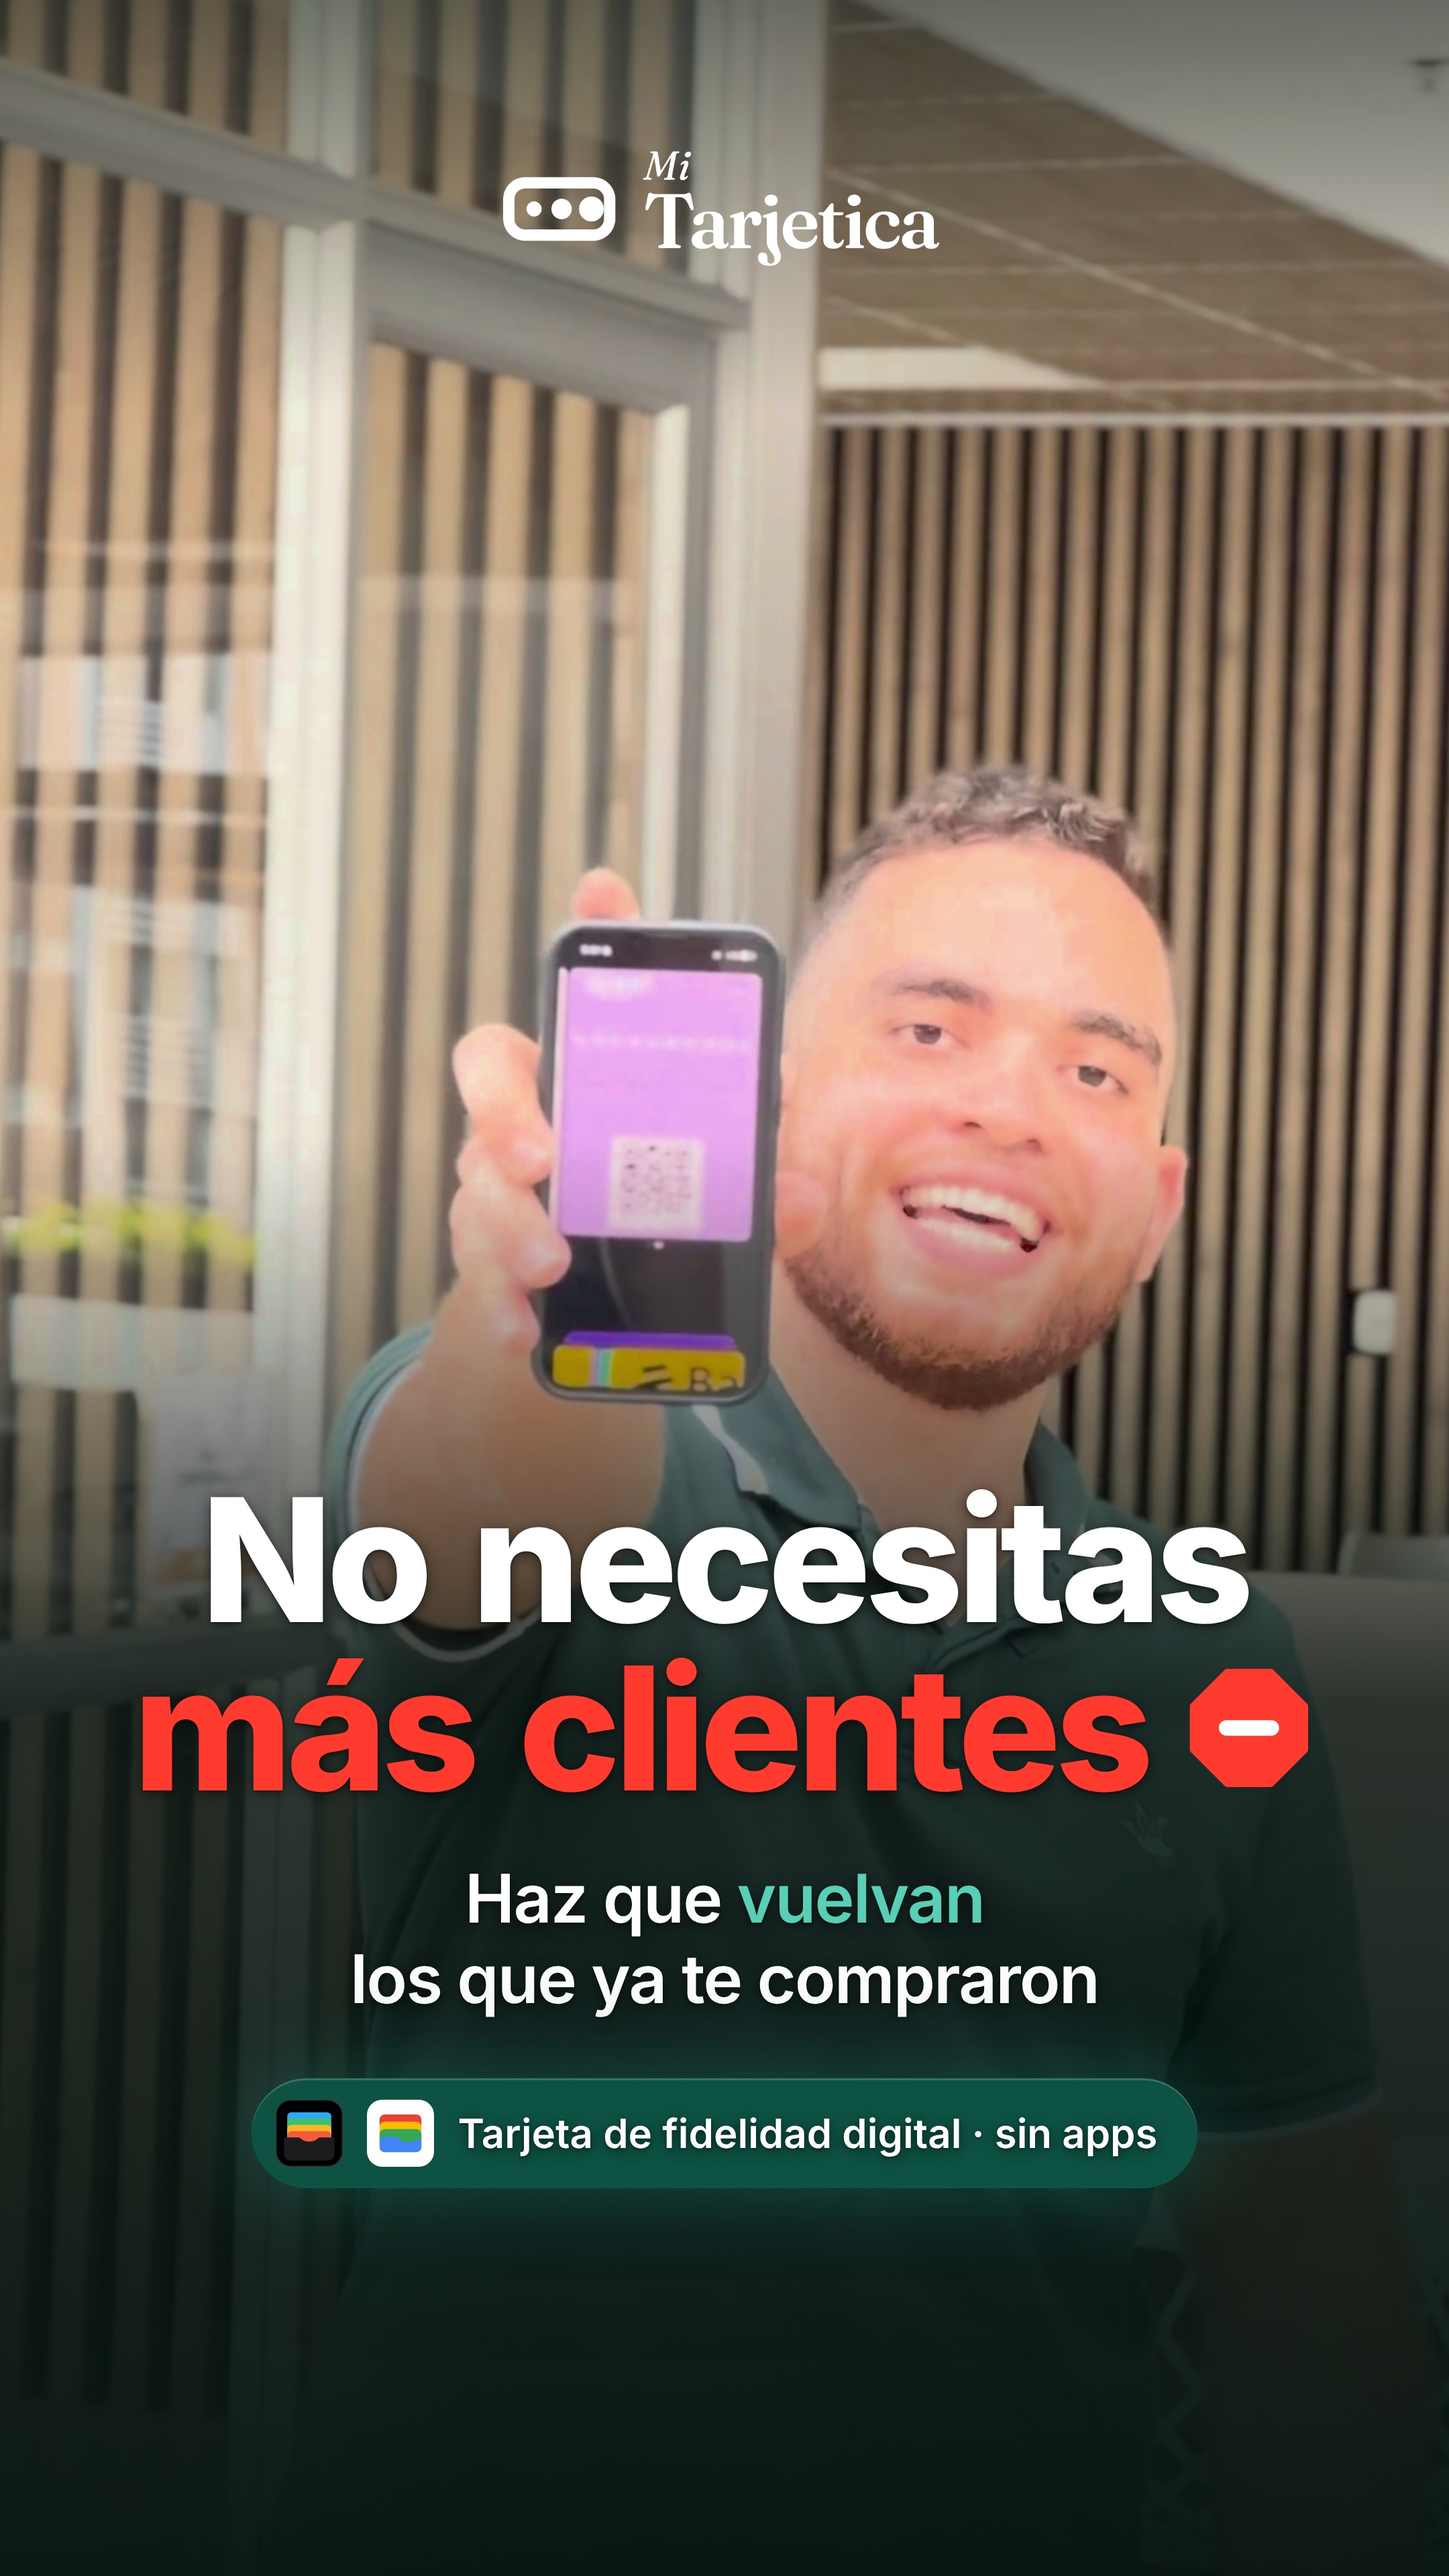
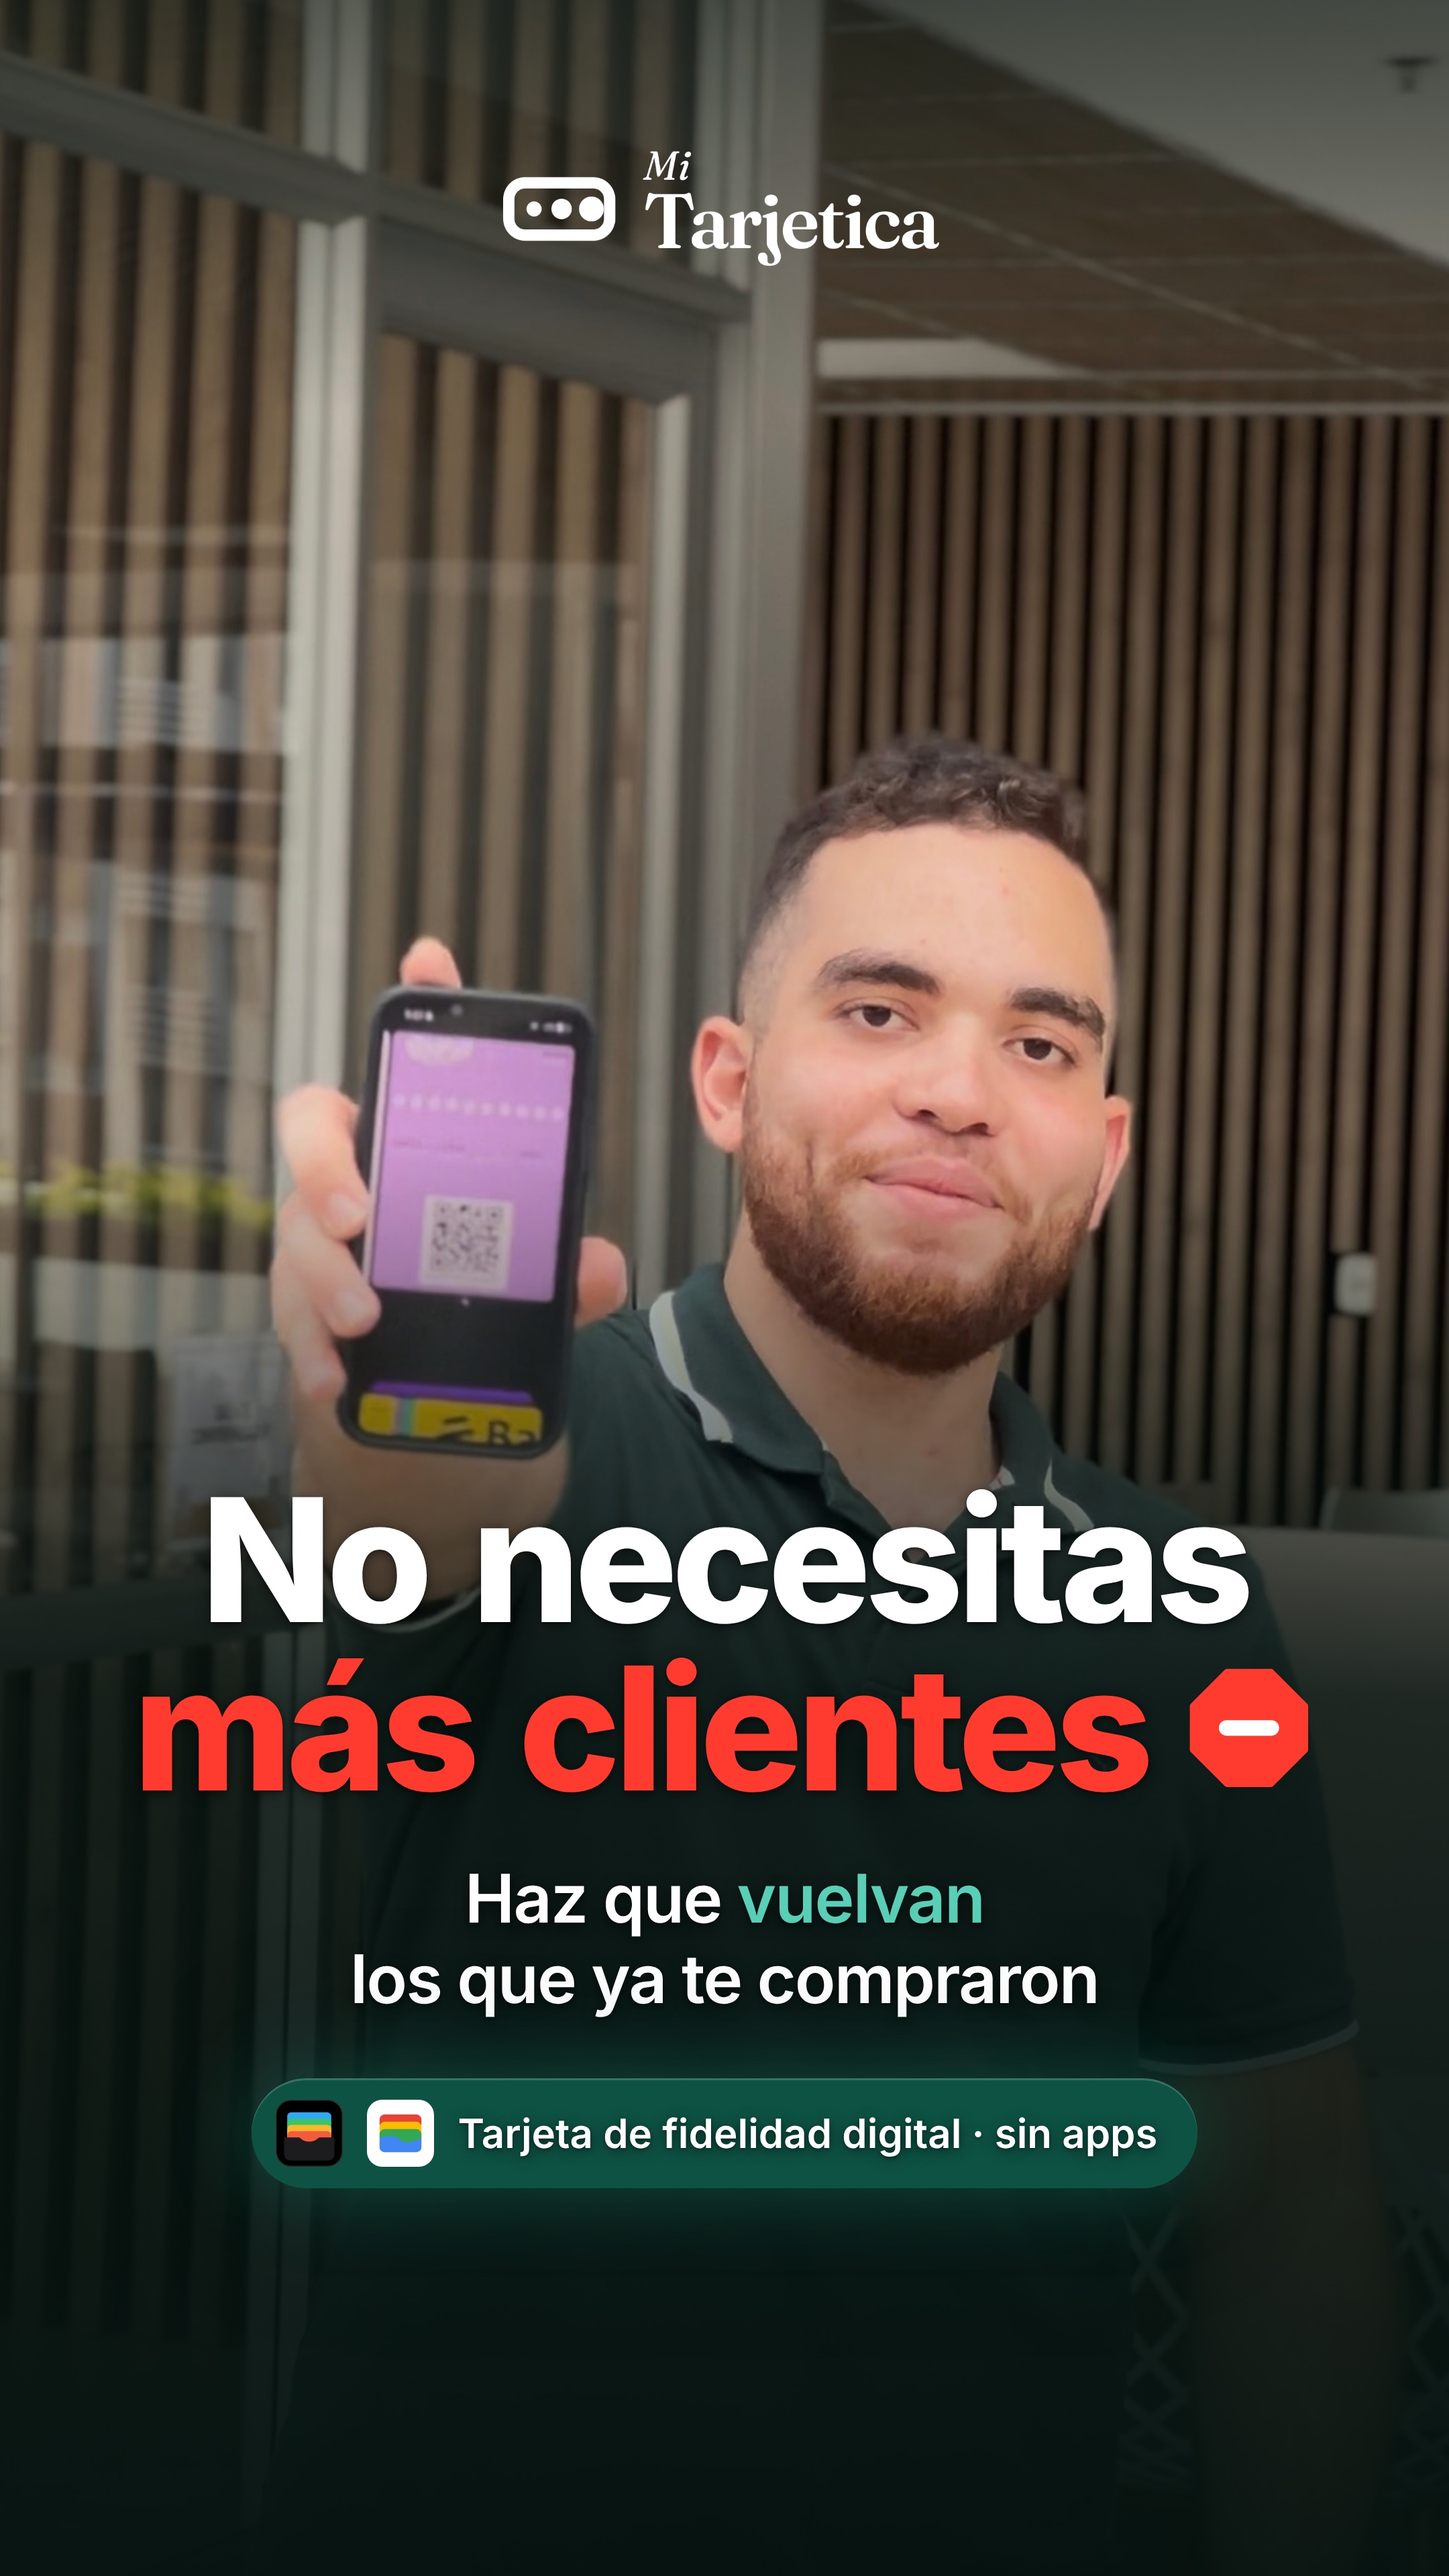
Portada con la foto nueva (convertida de Display P3 a sRGB)
Claude-Session: https://claude.ai/code/session_01Nxfa69WVdRPQ8teoaEofkj

diff --git a/src/Portada.tsx b/src/Portada.tsx
@@ -18,8 +18,8 @@ export const Portada: React.FC = () => {
     <AbsoluteFill style={{ backgroundColor: colors.black }}>
       {/* foto original, sin filtros */}
       <Img
-        src={staticFile("assets/portada-foto.png")}
-        style={{ width: "100%", height: "100%", objectFit: "cover", transform: "scale(1.06)", transformOrigin: "50% 30%" }}
+        src={staticFile("assets/portada-foto.jpg")}
+        style={{ width: "100%", height: "100%", objectFit: "cover", objectPosition: "50% 40%" }}
       />
       {/* degradados para legibilidad (arriba logo, abajo titular) */}
       <AbsoluteFill
